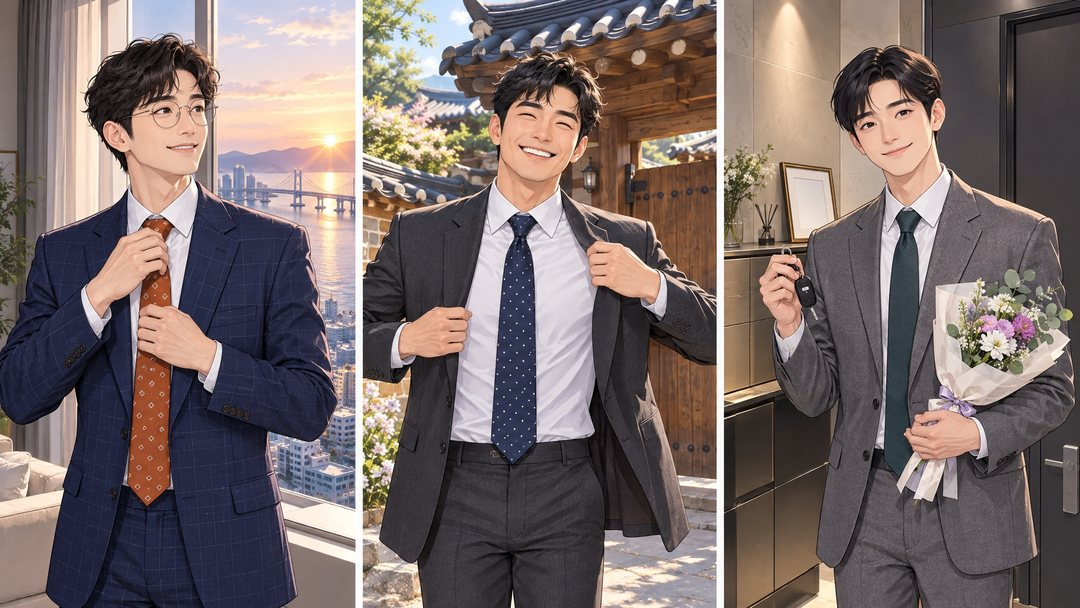
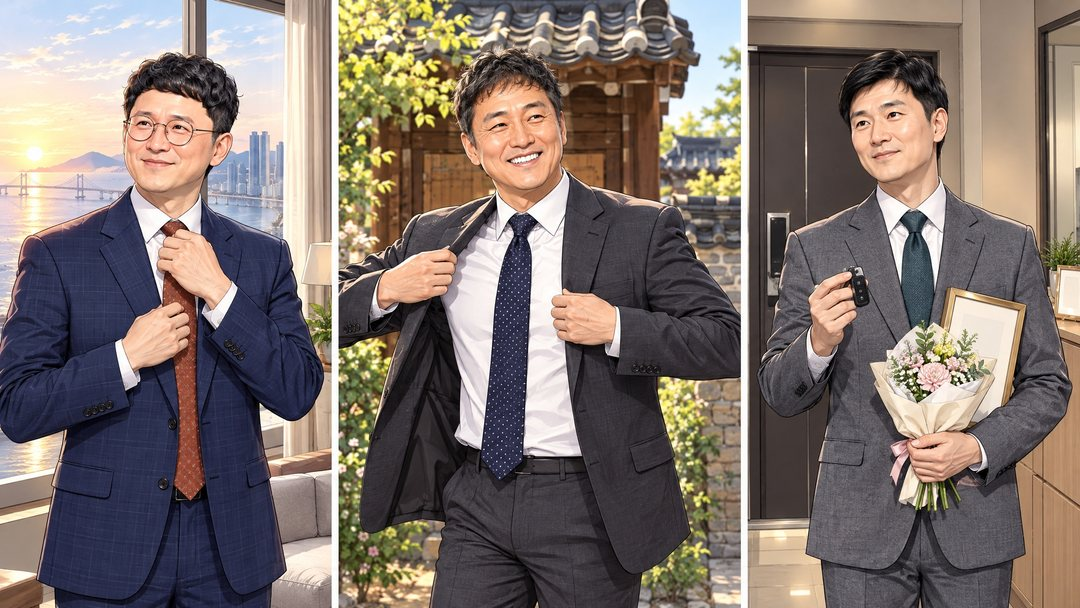
도입 컷 교체, 카톡 미리보기 주소 수정

diff --git a/index.html b/index.html
@@ -9,7 +9,7 @@
 <meta property="og:type" content="website">
 <meta property="og:title" content="세 겹 줄 · 총국장님들의 대전 가는 길">
 <meta property="og:description" content="부산역, 전주역, 청주에서 대전까지. 11.9(월) 킥오프 워크숍 특별 웹툰">
-<meta property="og:image" content="og.jpg">
+<meta property="og:image" content="https://bakcine1-boop.github.io/cts-webtoon-1109/og.jpg">
 <meta property="og:image:width" content="1200">
 <meta property="og:image:height" content="630">
 <link rel="stylesheet" href="https://cdn.jsdelivr.net/gh/orioncactus/pretendard@v1.3.9/dist/web/static/pretendard.min.css">
